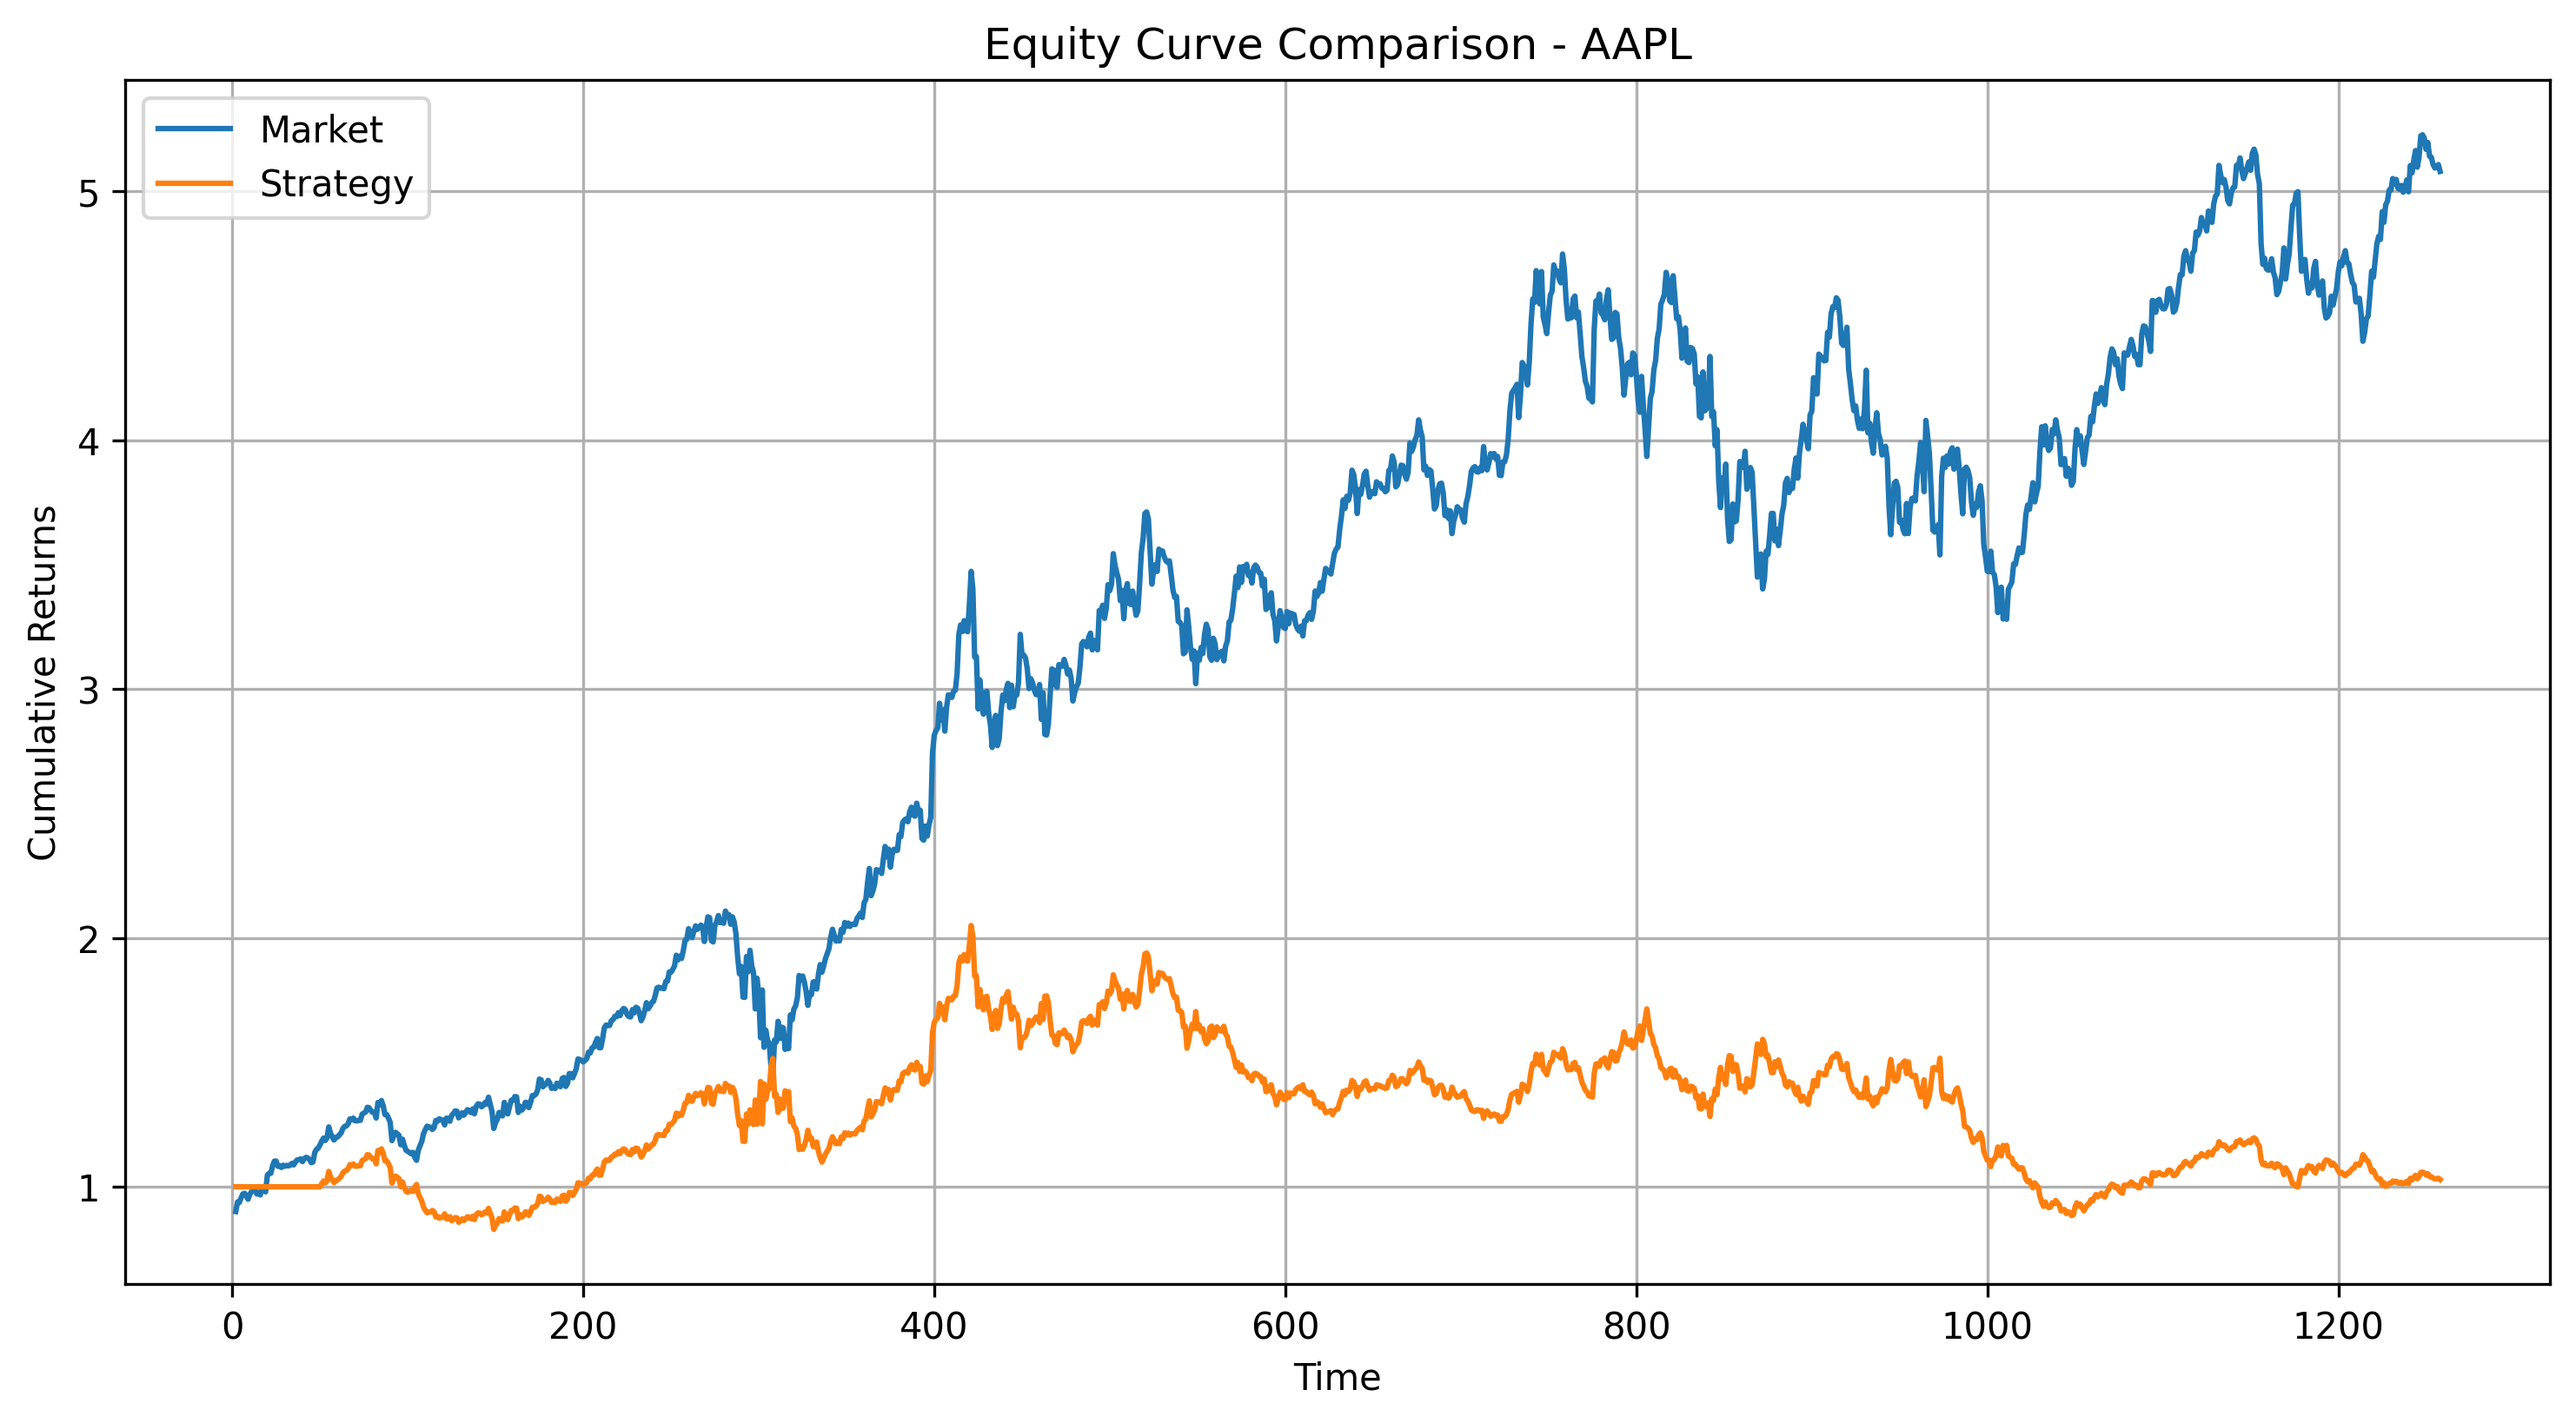
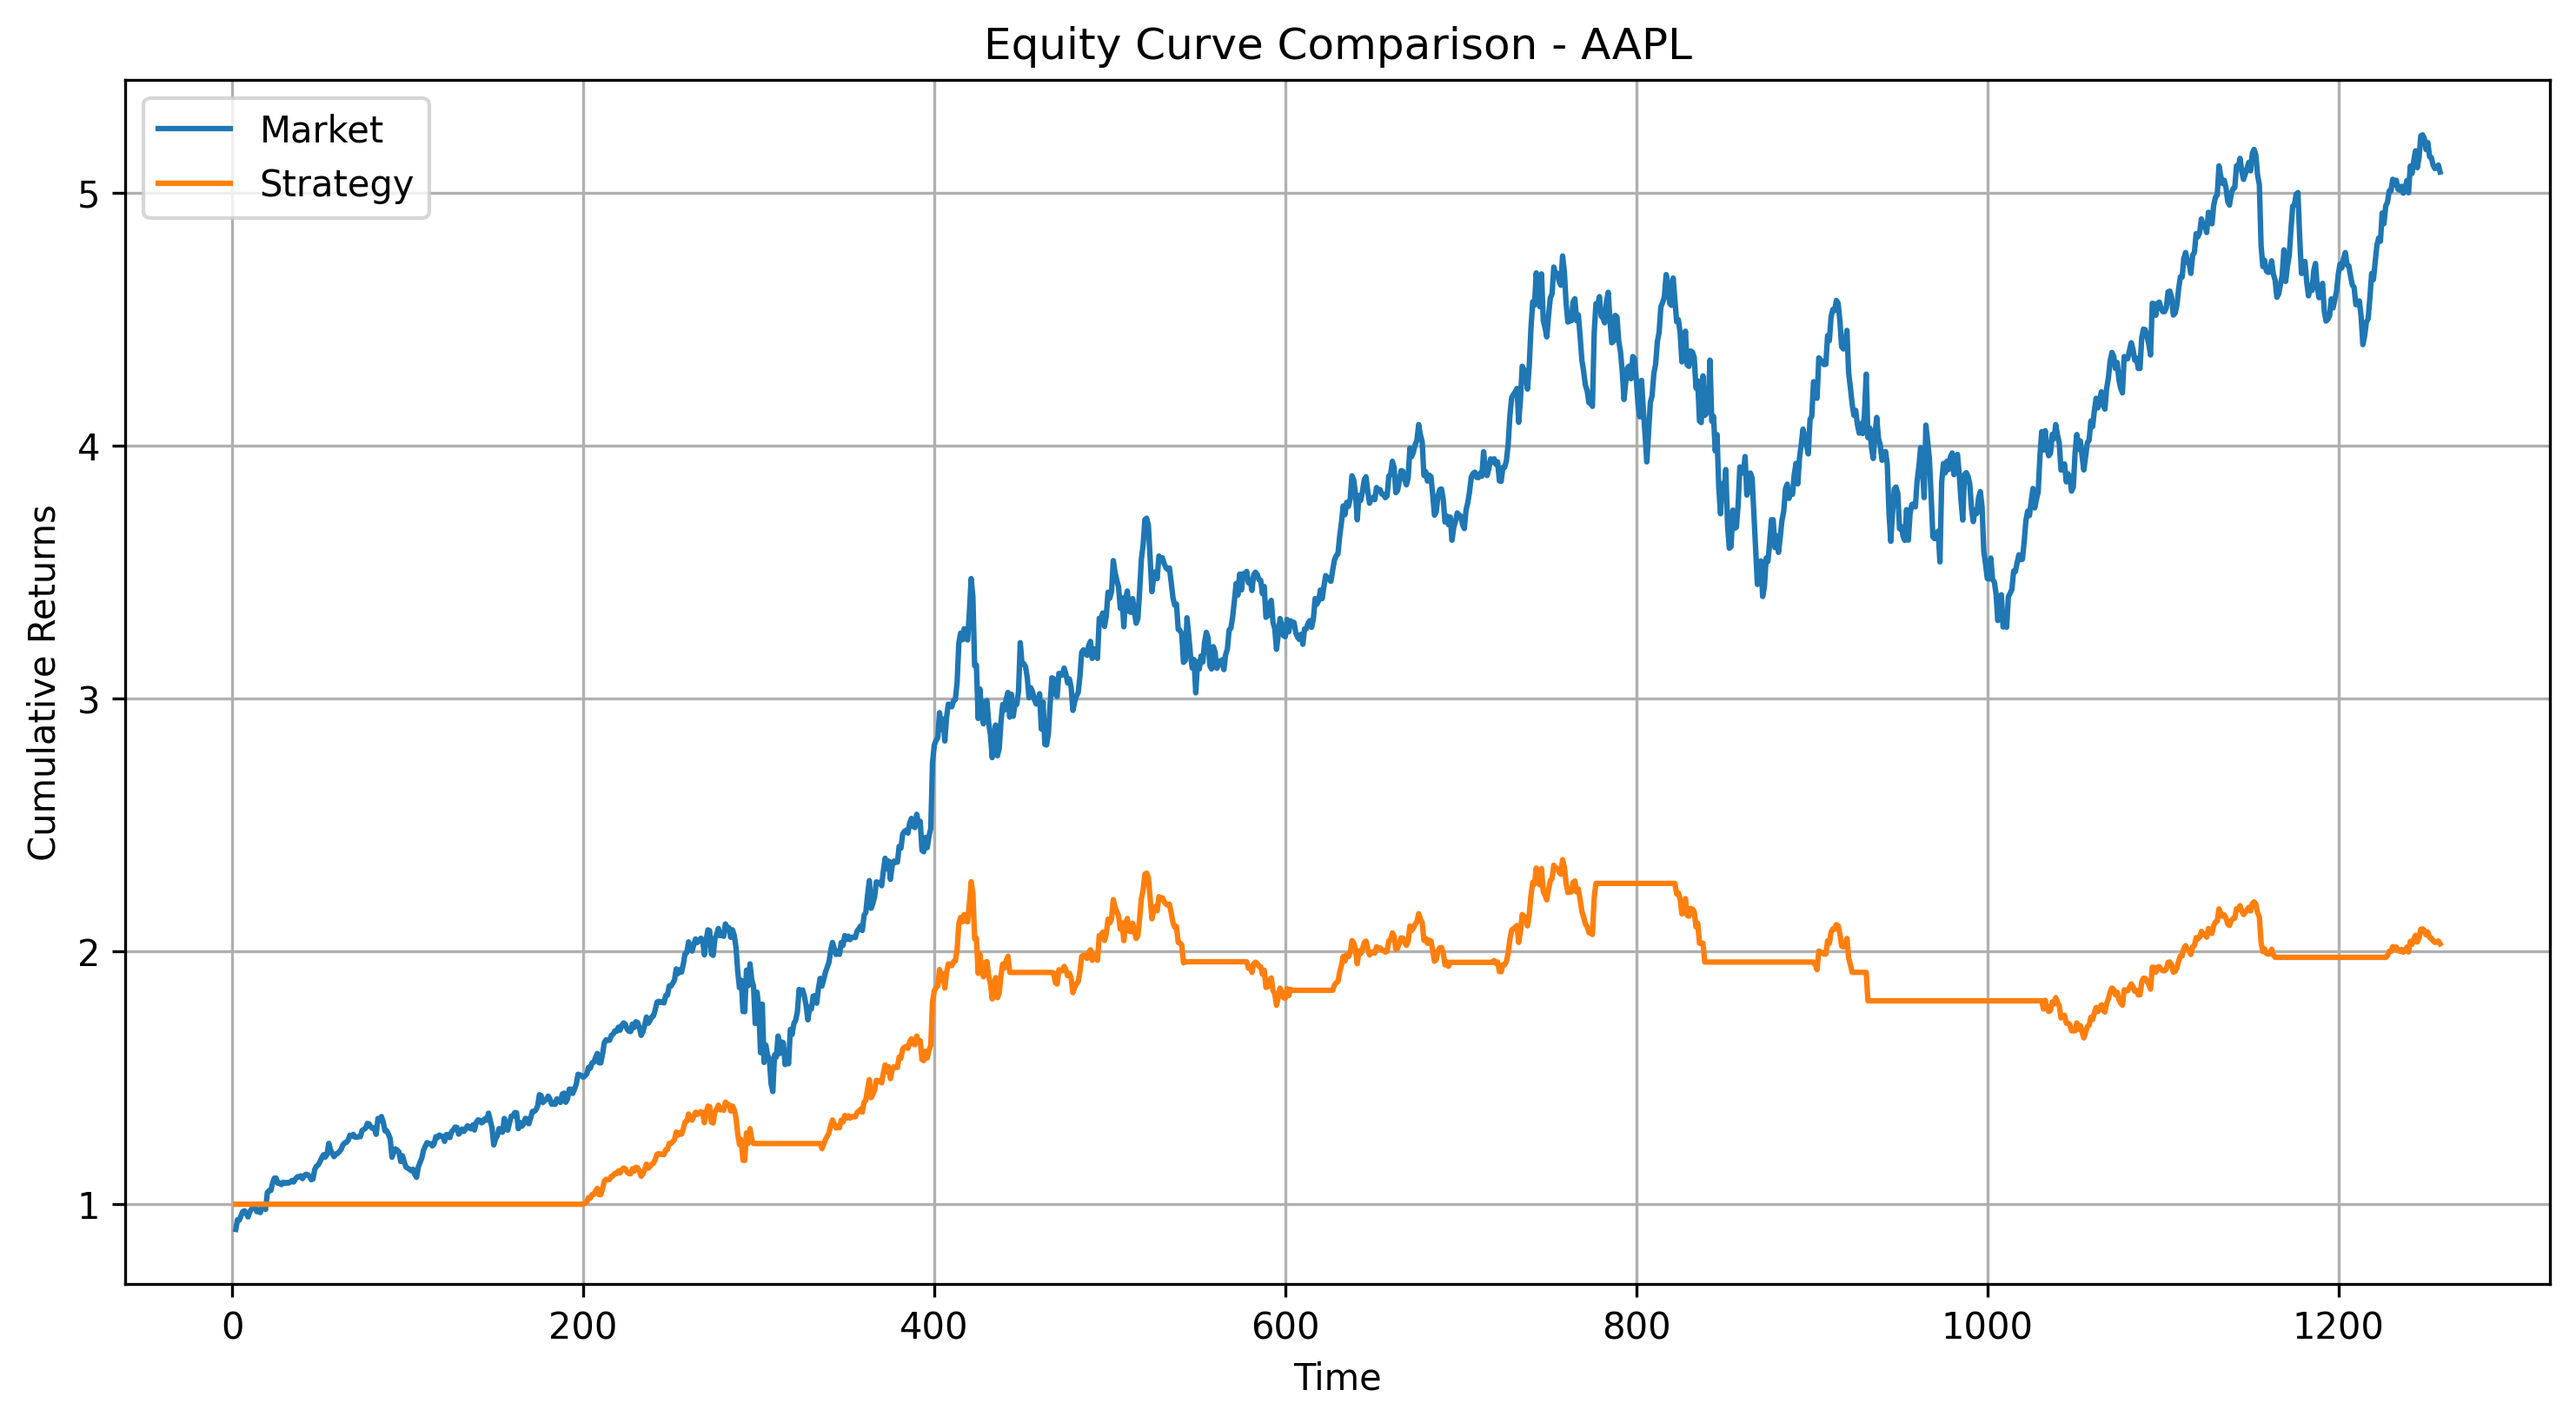
Improve SMA strategy metrics and stabilize portfolio performance

diff --git a/src/strategies/sma.py b/src/strategies/sma.py
@@ -6,10 +6,13 @@ import pandas as pd
 def sma_strategy(
     data: pd.DataFrame,
     short_window: int = 20,
-    long_window: int = 50
+    long_window: int = 50,
+    trend_window: int = 200
 ) -> pd.DataFrame:
     """
-    Simple Moving Average (SMA) crossover strategy.
+    SMA crossover strategy with trend regime filter.
+
+    Trades are only allowed when price is above long-term trend SMA.
 
     Parameters
     ----------
@@ -19,6 +22,8 @@ def sma_strategy(
         Short-term SMA window.
     long_window : int
         Long-term SMA window.
+    trend_window : int
+        Long-term trend filter window (default = 200).
 
     Returns
     -------
@@ -28,18 +33,35 @@ def sma_strategy(
 
     df = data.copy()
 
-    # Calculate SMAs
+    # ======================
+    # Moving Averages
+    # ======================
     df["SMA_Short"] = df["Close"].rolling(window=short_window).mean()
     df["SMA_Long"] = df["Close"].rolling(window=long_window).mean()
+    df["SMA_Trend"] = df["Close"].rolling(window=trend_window).mean()
 
-    # Initialize signal column
+    # ======================
+    # Signal Logic
+    # ======================
     df["Signal"] = 0
 
-    # Generate signals
-    df.loc[df["SMA_Short"] > df["SMA_Long"], "Signal"] = 1
-    df.loc[df["SMA_Short"] < df["SMA_Long"], "Signal"] = -1
+    # Bullish crossover ONLY in uptrend
+    df.loc[
+        (df["SMA_Short"] > df["SMA_Long"]) &
+        (df["Close"] > df["SMA_Trend"]),
+        "Signal"
+    ] = 1
 
-    # Position change (trade execution points)
+    # Exit condition
+    df.loc[
+        (df["SMA_Short"] < df["SMA_Long"]) |
+        (df["Close"] < df["SMA_Trend"]),
+        "Signal"
+    ] = 0
+
+    # ======================
+    # Position Change
+    # ======================
     df["Position"] = df["Signal"].diff()
 
     return df

diff --git a/src/portfolio_runner.py b/src/portfolio_runner.py
@@ -1,0 +1,26 @@
+from src.data_loader import load_stock_data
+from src.strategies.sma import sma_strategy
+from src.backtest import run_backtest
+from src.portfolio import run_portfolio_backtest
+from src.performance import calculate_metrics
+
+
+def run_portfolio(tickers):
+    strategy_results = {}
+
+    for ticker in tickers:
+        df = load_stock_data(ticker)
+        signals = sma_strategy(df)
+        backtest_df = run_backtest(signals)
+        strategy_results[ticker] = backtest_df
+
+    portfolio_df = run_portfolio_backtest(strategy_results)
+    metrics = calculate_metrics(portfolio_df, column="Portfolio_Return")
+
+    return metrics, portfolio_df
+
+
+if __name__ == "__main__":
+    tickers = ["AAPL", "MSFT", "GOOGL", "AMZN", "META"]
+    metrics, portfolio_df = run_portfolio(tickers)
+    print("Portfolio Metrics:", metrics)

diff --git a/src/portfolio.py b/src/portfolio.py
@@ -1,0 +1,20 @@
+import pandas as pd
+
+
+def run_portfolio_backtest(strategy_results: dict) -> pd.DataFrame:
+    """
+    Combines multiple strategy backtest DataFrames into a portfolio.
+
+    strategy_results: dict[str, pd.DataFrame]
+    """
+    portfolio = pd.DataFrame()
+
+    for ticker, df in strategy_results.items():
+        portfolio[ticker] = df["Strategy_Return"]
+
+    # Equal-weight portfolio
+    portfolio["Portfolio_Return"] = portfolio.mean(axis=1)
+
+    portfolio["Cumulative_Return"] = (1 + portfolio["Portfolio_Return"]).cumprod()
+
+    return portfolio

diff --git a/tests/test_backtest.py b/tests/test_backtest.py
@@ -1,12 +1,13 @@
 from src.data_loader import load_stock_data
 from src.strategies.sma import sma_strategy
 from src.backtest import run_backtest
-from src.performance import performance_metrics
+from src.performance import calculate_strategy_metrics
+
 
 df = load_stock_data("AAPL")
 signals = sma_strategy(df)
 
 bt = run_backtest(signals)
-metrics = performance_metrics(bt)
+metrics = calculate_strategy_metrics(bt)
 
 print(metrics)

diff --git a/tests/test_portfolio.py b/tests/test_portfolio.py
@@ -1,0 +1,8 @@
+from src.portfolio_runner import run_portfolio
+
+metrics, portfolio_df = run_portfolio(["AAPL", "MSFT", "GOOGL"])
+
+print("Portfolio Metrics:")
+print(metrics)
+print("\nPortfolio Tail:")
+print(portfolio_df.tail())
